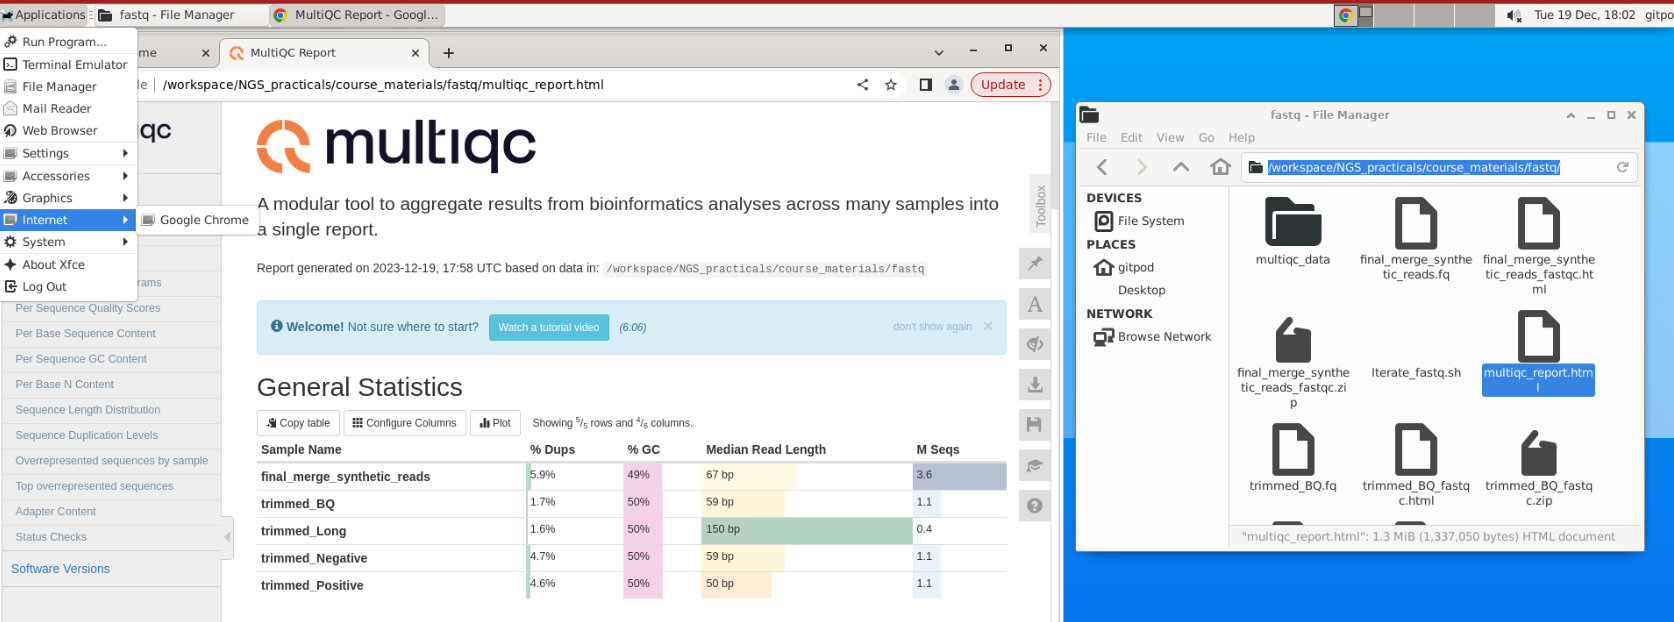
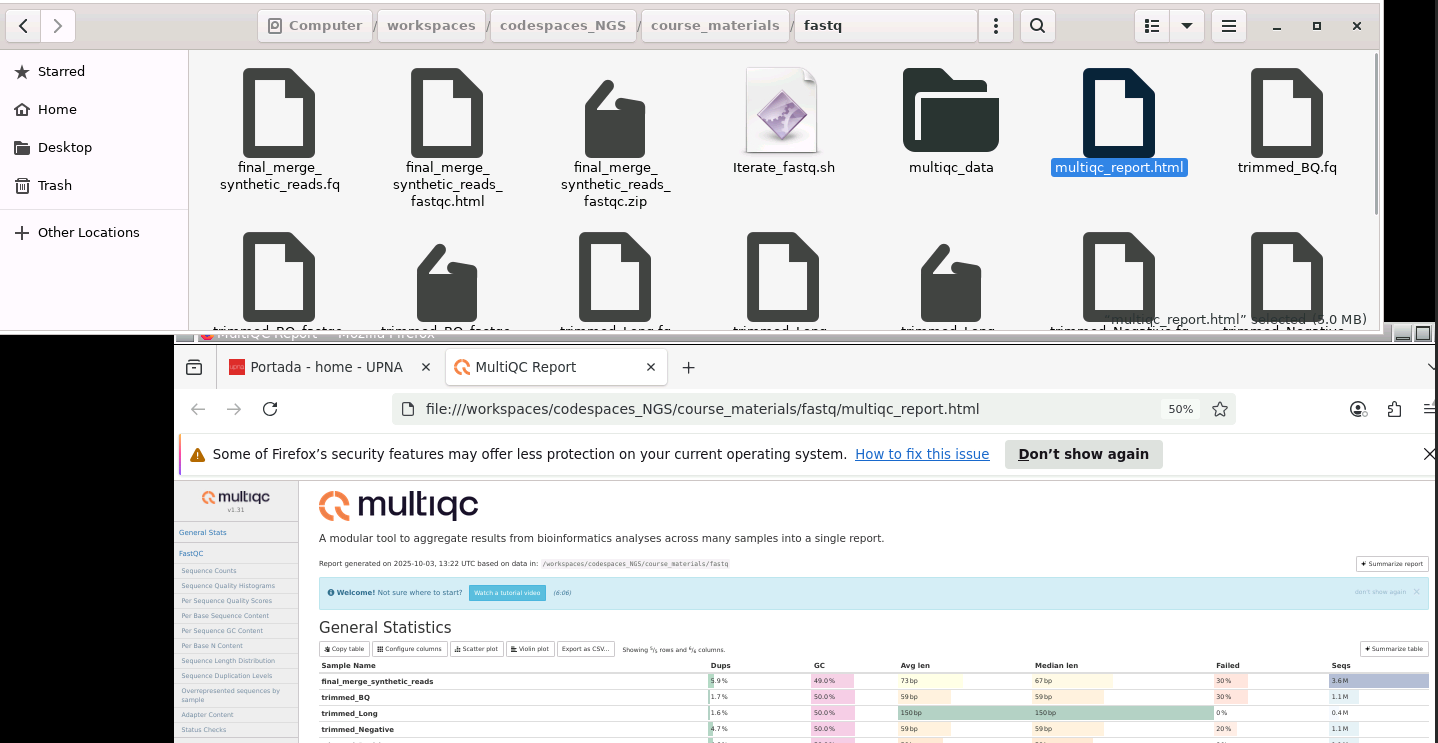
update

diff --git a/practicals/NextGenerationSequencingPractical.md b/practicals/NextGenerationSequencingPractical.md
@@ -457,7 +457,7 @@ firefox multiqc_report.html
 
 ``` 
 
-If this doesn't work you could navigate with the folder system File System > Workspace > NGS_practicals > course_materials > fastq ...
+If this doesn't work you could navigate with the folder system File System > Computer > workspaces > codespaces_NGS > course_materials > fastq ...
 and open "multiqc_report.html" with Firefox or any other web browser. To select a Web browser, open applications tab on the top left 
 corner and select Internet > Google Chrome. Or just drag and drop the multiqc-report to Chrome. 
 
